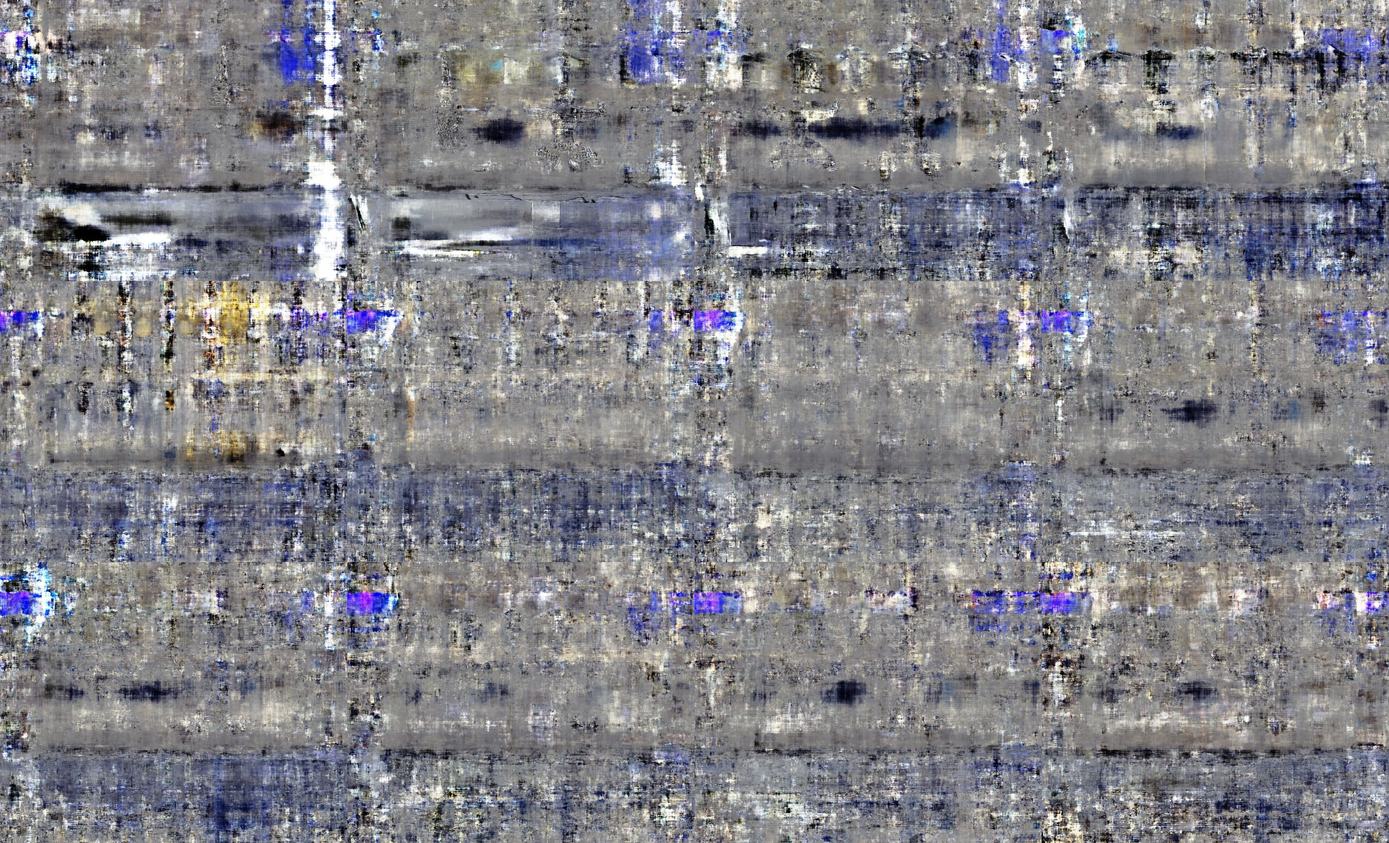
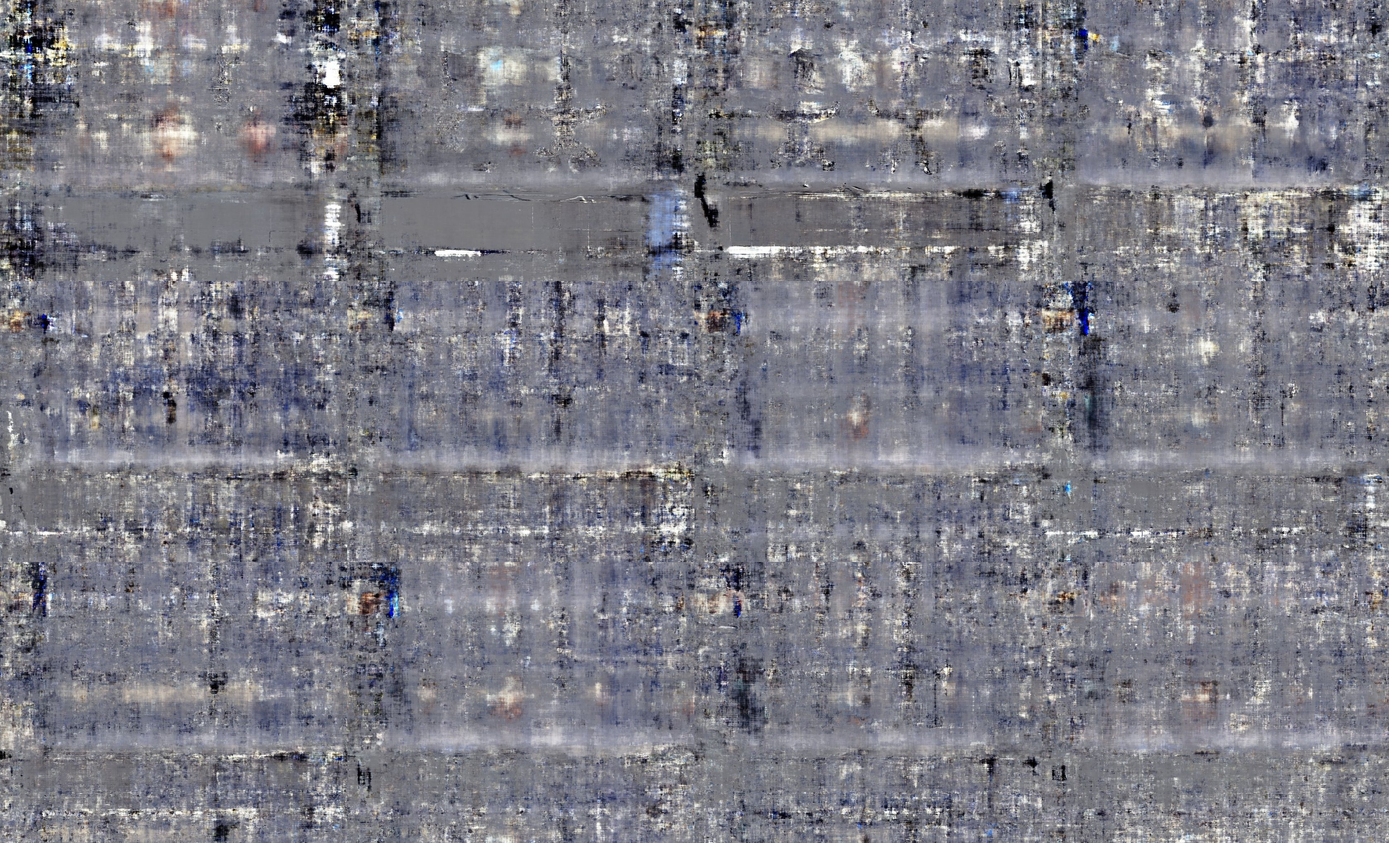
update

diff --git a/640/config.js b/640/config.js
@@ -6,23 +6,24 @@
   const layers = 12;
   const sublayers = 6;
 
-  const planes = [[1.629,1.650351127152763,1.6722693814169158,1.6947776629127542,1.7179001214987422,1.7416622432038669,1.7660909439338393,1.7912146711754577,1.817063514507098,1.8436693258178902,1.8710658502454924,1.8992888689641922,1.9283763550937523,1.9583686441574804,1.9893086206985515,2.0212419228702374,2.054217167052672,2.0882861948211286,2.123504344904445,2.159930753134364,2.1976286838055064,2.2366658963517048,2.2771150518094423,2.3190541641979134,2.3625671027151576,2.4077441515522127,2.4546826351880506,2.503487618278691,2.554272690732897,2.6071608503213892,2.6622854972550556,2.7197915576620315,2.7798367558837103,2.842593059107326,2.9082483221982787,2.977008165865524,3.0490981277120754,3.1247661335750463,3.2042853462104275,3.2879574602967034,3.376116527526417,3.4691334140185277,3.5674210154560795,3.671440384606228,3.7817079630392563,3.8988041563782545,4.0233835535905,4.156187170185587,4.298057198917859,4.4499548883173246,4.612982351181573,4.788409349195473,4.977706430704873,5.18258625209203,5.4050555417953765,5.647481048352642,5.912674069075518,6.203999967815736,6.525521747225532,6.882190704856431,7.280103229055202,7.726852145679745,8.232015886234064,8.807852962566683,9.470309838857592,10.240520618898998,11.147103327968237,12.229794388372824,13.545428993043364,15.178246861897241,17.25867343132134,20.0]];
+  const planes = [[1.929,1.9538649960162033,1.9793793871914602,2.0055689503560954,2.032460844866426,2.060083706553253,2.088467749436936,2.117644875968591,2.14764879664302,2.1785151599262265,2.210281693550339,2.242988358353416,2.2766775159830708,2.311394111943781,2.347185875651025,2.384103539364716,2.4222010781137255,2.4615359729976736,2.5021695005672675,2.544167051347187,2.5875984809839596,2.632538497985121,2.6790670925767626,2.7272700118582156,2.7772392871916747,2.8290738206511916,2.8828800383937767,2.938772620034911,2.996875314547293,3.0573218548989276,3.1202569856584685,3.185837620187975,3.25423414689781,3.3256319074566236,3.400232873957591,3.4782575569989143,3.5599471826409728,3.645566183506727,3.735405058216124,3.829783664298667,3.9290550232371335,4.03360973303941,4.143881104599271,4.260351164248376,4.3835576978472535,4.514102553538616,4.65266147360268,4.799995794365502,4.95696644178707,5.124550766012935,5.303862910252687,5.496178611057046,5.702965597075211,5.925921118387321,6.1670186371761915,6.428566399511846,6.713281571672255,7.0243849899859745,7.365723535960333,7.741930013481776,8.158634657770895,8.62274883605262,9.142851420904014,9.729723969637018,10.397106158144055,11.16278501130876,12.050203683011162,13.090903877310117,14.328353524574734,15.82417201518189,17.668709282074435,20.0]];
 
-  const f = 490.83039680711016 * scale;
+  const f = 487.06179912060225 * scale;
   var names = [""];
   var nMpis = names.length;
 
-  const py = 239.57981376787495 * scale;
-  const px = 319.5798004987531 * scale;
+  const py = 238.25797925314683 * scale;
+  const px = 320.89211639622425 * scale;
   const invz = false;
 
   const offset = 100;
   const maxcol = 4;
   const version = "basis8_b_png_optimized_compact";
-  const extrinsics = [[0.9995147585868835,-0.004701672121882439,0.030789390206336975,0.0,0.003789626993238926,0.9995542168617249,0.029613720253109932,0.0,-0.030914898961782455,-0.029482675716280937,0.9990870952606201,0.0,0.010159571655094624,0.04573435336351395,0.11435161530971527,1.0]];
+  const extrinsics = [[0.9995057582855225,-0.004624189808964729,0.03109203651547432,0.0,0.003701180452480912,0.9995526671409607,0.02967866137623787,0.0,-0.0312153659760952,-0.029548916965723038,0.9990758299827576,0.0,0.01215137168765068,0.05473027750849724,0.1362379938364029,1.0]];
 
-  const rads = [[0.35155106782913226,0.0962567284703255,0.1896834999322891]];
-  const focal  = 3.994043587419676;
+  const rads = [[0.4146807312965395,0.11279511675238613,0.22528528720140462]];
+  const focal  = 4.130409445821307;
+
 
   const max_viewing_right =  0.05;
   const max_viewing_left =  0.01;

diff --git a/640_old/config.js b/640_old/config.js
@@ -1,0 +1,30 @@
+
+  const w = 640;
+  const h = 480;
+  const scale = 1;
+  const nSubPlanes = 1;
+  const layers = 12;
+  const sublayers = 6;
+
+  const planes = [[1.629,1.650351127152763,1.6722693814169158,1.6947776629127542,1.7179001214987422,1.7416622432038669,1.7660909439338393,1.7912146711754577,1.817063514507098,1.8436693258178902,1.8710658502454924,1.8992888689641922,1.9283763550937523,1.9583686441574804,1.9893086206985515,2.0212419228702374,2.054217167052672,2.0882861948211286,2.123504344904445,2.159930753134364,2.1976286838055064,2.2366658963517048,2.2771150518094423,2.3190541641979134,2.3625671027151576,2.4077441515522127,2.4546826351880506,2.503487618278691,2.554272690732897,2.6071608503213892,2.6622854972550556,2.7197915576620315,2.7798367558837103,2.842593059107326,2.9082483221982787,2.977008165865524,3.0490981277120754,3.1247661335750463,3.2042853462104275,3.2879574602967034,3.376116527526417,3.4691334140185277,3.5674210154560795,3.671440384606228,3.7817079630392563,3.8988041563782545,4.0233835535905,4.156187170185587,4.298057198917859,4.4499548883173246,4.612982351181573,4.788409349195473,4.977706430704873,5.18258625209203,5.4050555417953765,5.647481048352642,5.912674069075518,6.203999967815736,6.525521747225532,6.882190704856431,7.280103229055202,7.726852145679745,8.232015886234064,8.807852962566683,9.470309838857592,10.240520618898998,11.147103327968237,12.229794388372824,13.545428993043364,15.178246861897241,17.25867343132134,20.0]];
+
+  const f = 490.83039680711016 * scale;
+  var names = [""];
+  var nMpis = names.length;
+
+  const py = 239.57981376787495 * scale;
+  const px = 319.5798004987531 * scale;
+  const invz = false;
+
+  const offset = 100;
+  const maxcol = 4;
+  const version = "basis8_b_png_optimized_compact";
+  const extrinsics = [[0.9995147585868835,-0.004701672121882439,0.030789390206336975,0.0,0.003789626993238926,0.9995542168617249,0.029613720253109932,0.0,-0.030914898961782455,-0.029482675716280937,0.9990870952606201,0.0,0.010159571655094624,0.04573435336351395,0.11435161530971527,1.0]];
+
+  const rads = [[0.35155106782913226,0.0962567284703255,0.1896834999322891]];
+  const focal  = 3.994043587419676;
+
+  const max_viewing_right =  0.05;
+  const max_viewing_left =  0.01;
+  const max_viewing_down = -0.03;
+  const max_viewing_up = 0.005;
